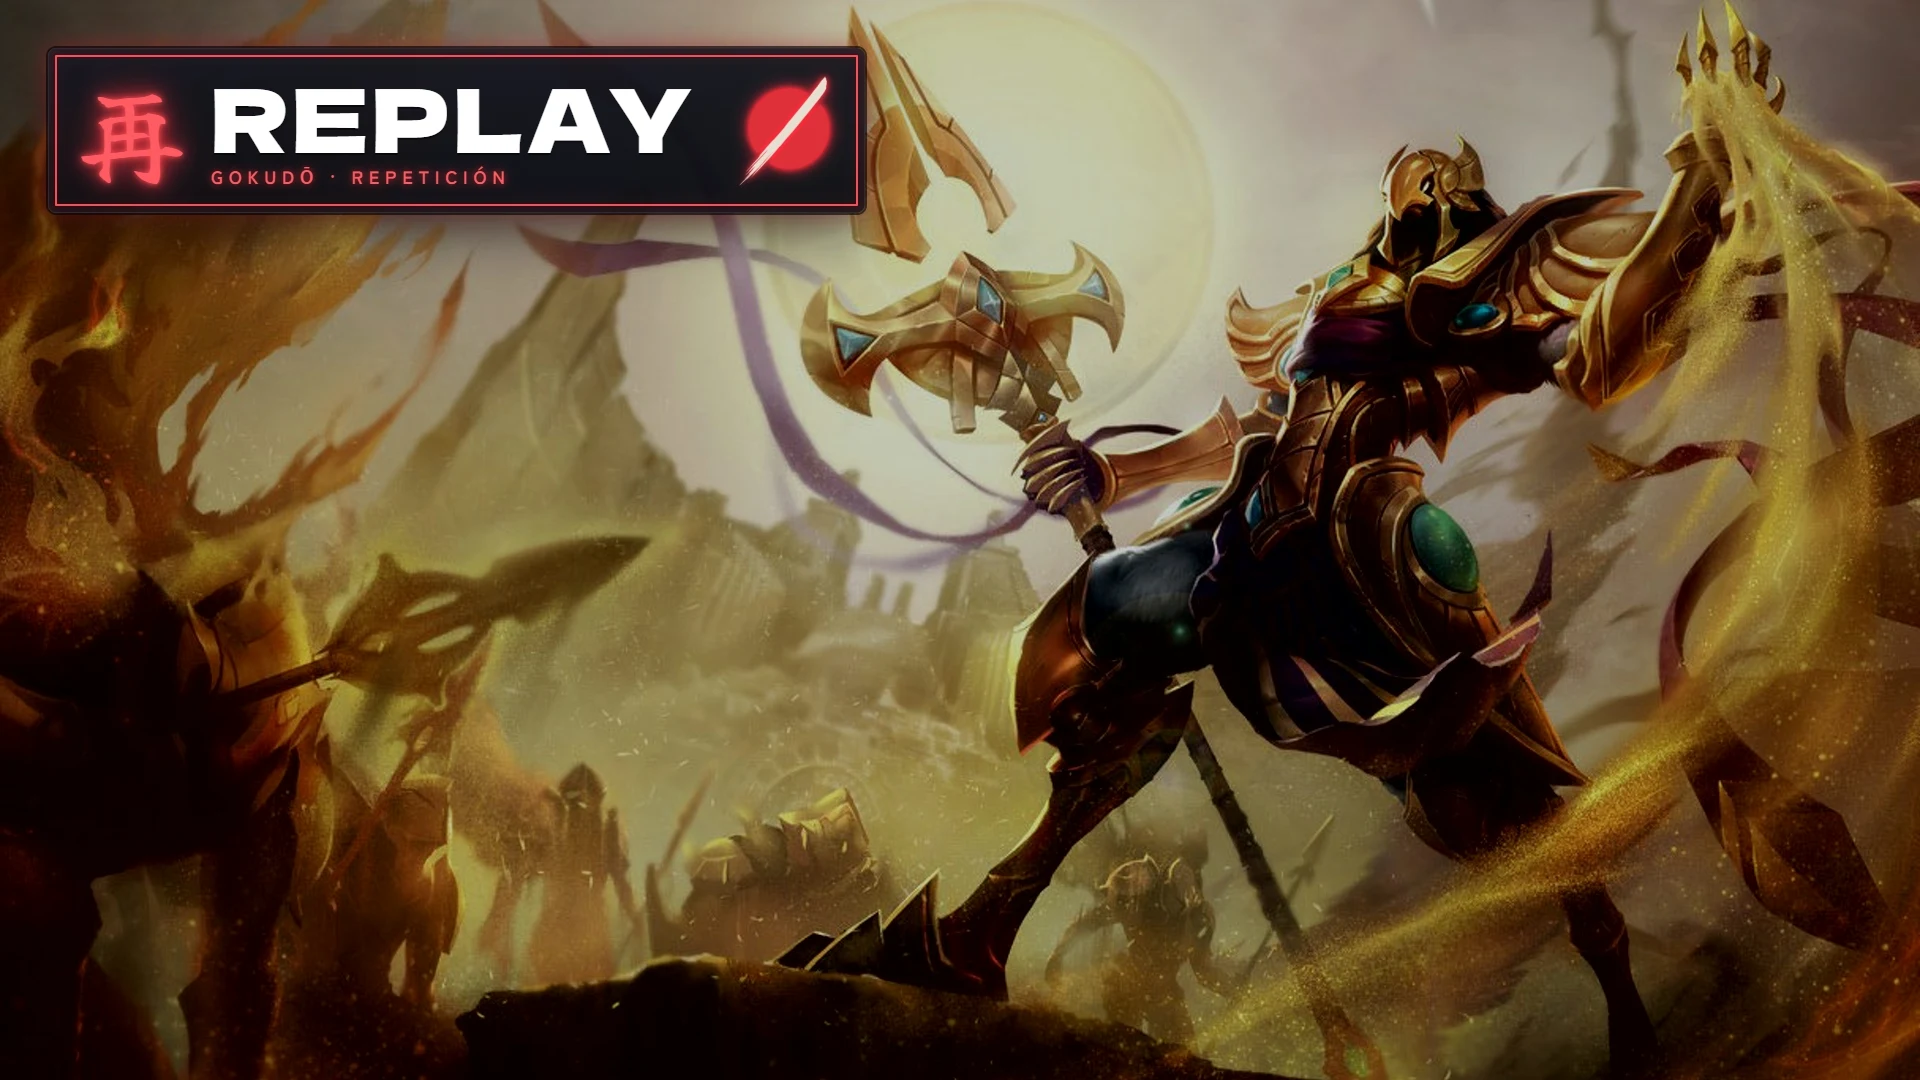
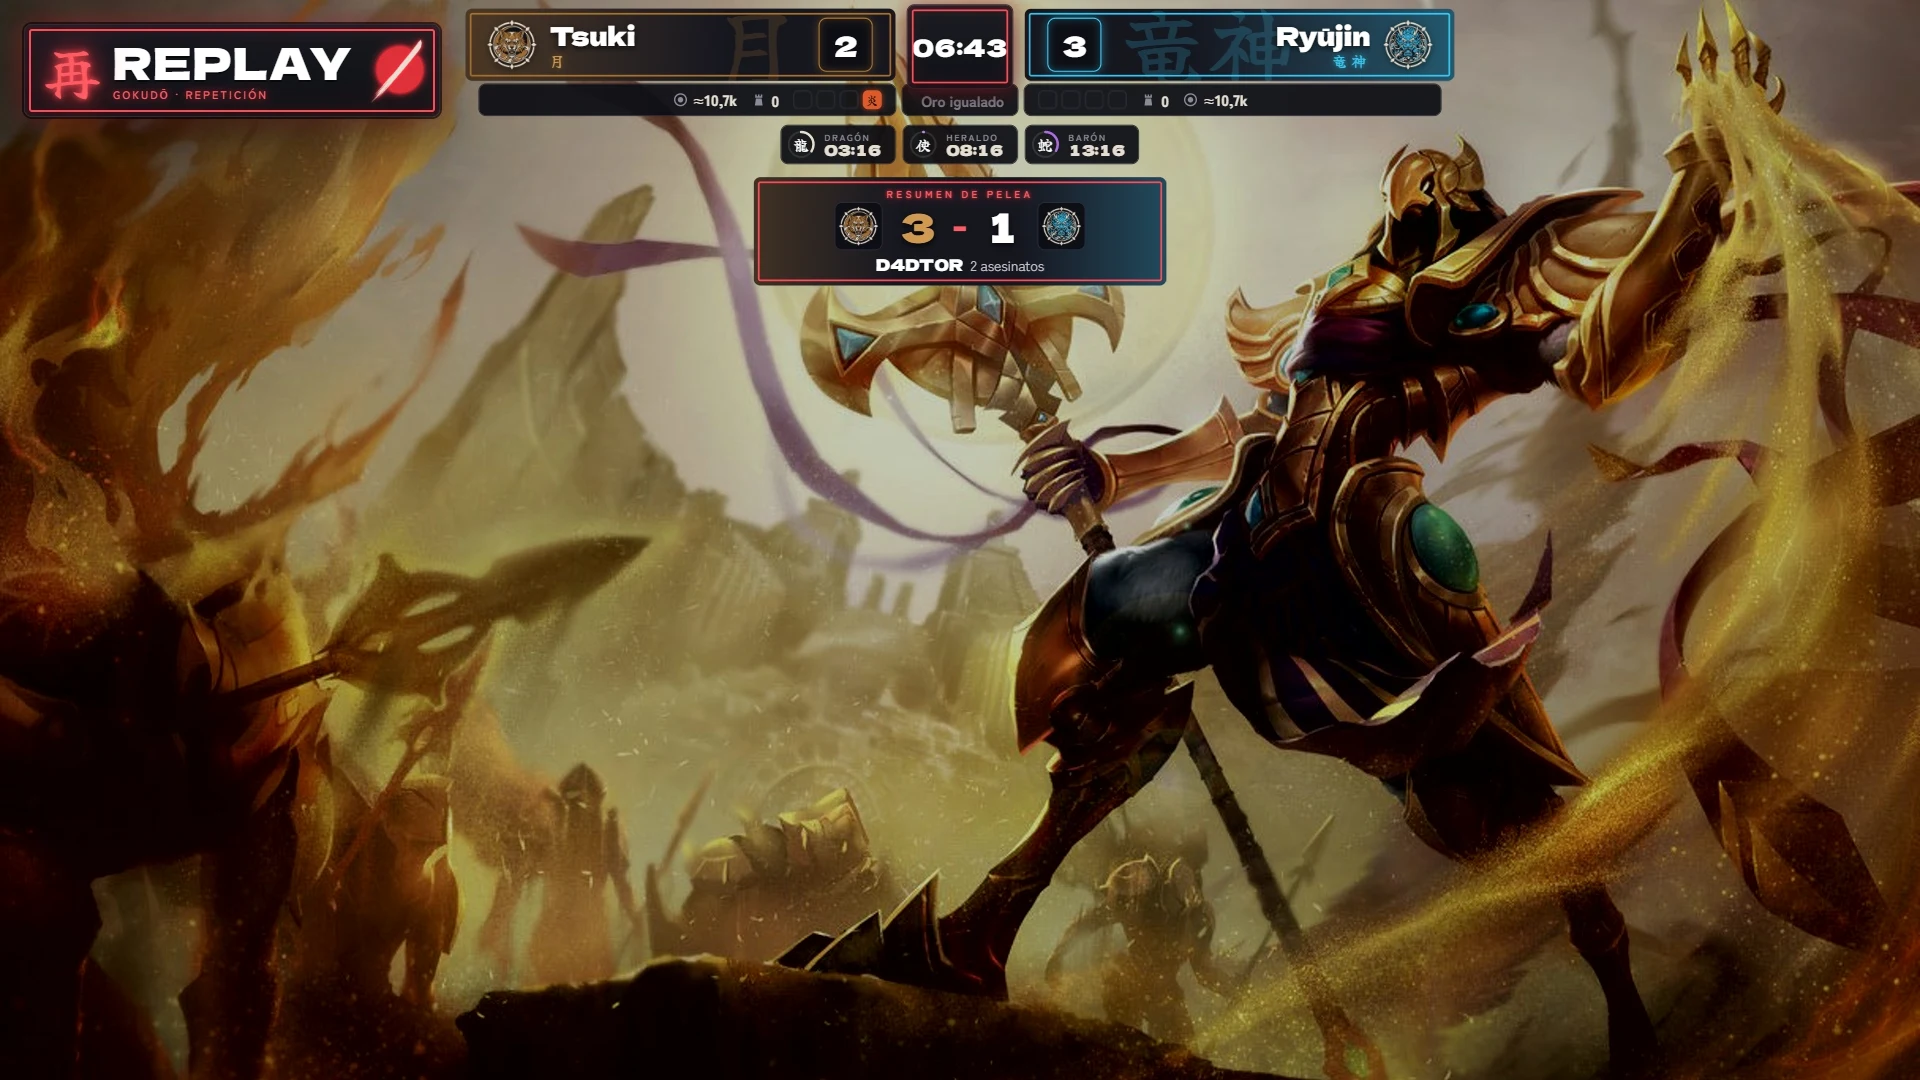
REPLAY: cartel compacto en la esquina para no tapar el marcador de la repetición
Mide unos 416×93 px y acaba en x 440; la placa azul del marcador empieza en x 465 (B) o 491 (A).
Muestra 14-replay rehecha con el marcador B debajo.

Changed region(s): [[0.0, 0.0, 0.7812, 0.275]]

diff --git a/public/overlay/replay.css b/public/overlay/replay.css
@@ -11,26 +11,28 @@ body[data-vista="replay"] #replay { opacity: 1; visibility: visible; transition:
 body[data-vista="replay"] #lienzo { opacity: 0; visibility: hidden; transition: opacity .5s ease, visibility 0s .5s; }
 body[data-vista="replay"] .codigo-directo { display: none; }
 
-.replay-cartel { position: absolute; left: 48px; top: 48px; display: grid; grid-template-columns: auto auto auto; align-items: center; gap: 26px;
-  padding: 20px 26px 20px 28px; border-radius: 8px; border: 1px solid var(--sumi-linea);
+/* Compacto y pegado a la esquina: la repetición lleva el marcador de la partida arriba en el centro, y el cartel no puede
+   tapar el nombre de la familia azul, que empieza hacia x 465 (estilo B) o 491 (A). Mide unos 410 px de ancho (acaba hacia x 435) */
+.replay-cartel { position: absolute; left: 24px; top: 24px; display: grid; grid-template-columns: auto auto auto; align-items: center; gap: 12px;
+  padding: 12px 14px 12px 18px; border-radius: 8px; border: 1px solid var(--sumi-linea);
   background: linear-gradient(180deg, rgba(21, 22, 31, .96), rgba(12, 13, 19, .96));
-  outline: 2px solid var(--shu-claro); outline-offset: -9px;
+  outline: 2px solid var(--shu-claro); outline-offset: -7px;
   box-shadow: 0 0 0 2px rgba(0, 0, 0, .6), 0 18px 50px rgba(0, 0, 0, .55), 0 0 26px rgba(224, 48, 58, .5), inset 0 0 22px rgba(224, 48, 58, .22); }
-.replay-sello { font-family: var(--pincel); font-size: 108px; line-height: 1; color: var(--shu-neon); text-shadow: 0 0 6px var(--shu-claro), 0 0 18px var(--shu), 0 0 40px var(--shu); }
+.replay-sello { font-family: var(--pincel); font-size: 58px; line-height: 1; color: var(--shu-neon); text-shadow: 0 0 6px var(--shu-claro), 0 0 18px var(--shu), 0 0 40px var(--shu); }
 .replay-texto { display: flex; flex-direction: column; }
-.replay-palabra { font-family: var(--dela); font-weight: 400; font-size: 88px; line-height: 1.05; letter-spacing: .04em; color: #fff;
+.replay-palabra { font-family: var(--dela); font-weight: 400; font-size: 44px; line-height: 1.1; letter-spacing: .03em; color: #fff;
   text-shadow: 0 2px 0 rgba(0, 0, 0, .5); }
-.replay-pie { margin-top: 2px; font-family: var(--gothic); font-weight: 700; font-size: 18px; letter-spacing: .32em; text-transform: uppercase;
+.replay-pie { margin-top: 2px; font-family: var(--gothic); font-weight: 700; font-size: 10.5px; letter-spacing: .22em; text-transform: uppercase;
   color: var(--shu-neon); text-shadow: 0 0 10px var(--shu); }
 /* El PNG del sol en neón lleva mucho margen para el halo: se agranda y se le come ese margen */
-.replay-sol { width: 160px; height: 160px; margin: -26px -26px -26px -18px; object-fit: contain; }
+.replay-sol { width: 92px; height: 92px; margin: -18px -18px -18px -14px; object-fit: contain; }
 
 /* Hasta que entra, no se ve nada (así no parpadea el cartel entero antes de empezar la animación) */
 .replay-cartel:not(.entra) { opacity: 0; }
 .replay-cartel.entra { animation: replay-bajar .5s cubic-bezier(.2, .9, .25, 1.15) var(--retraso, 0s) both,
   replay-encender 1s steps(1, end) calc(var(--retraso, 0s) + .25s) both; }
 .replay-cartel.entra .replay-sello, .replay-cartel.entra .replay-sol { animation: replay-zumbido 4s ease-in-out calc(var(--retraso, 0s) + 1.4s) infinite; }
-@keyframes replay-bajar { from { opacity: 0; transform: translateY(-60px); } to { opacity: 1; transform: none; } }
+@keyframes replay-bajar { from { opacity: 0; transform: translateY(-40px); } to { opacity: 1; transform: none; } }
 /* Un tubo que arranca: falla un par de veces y se queda encendido */
 @keyframes replay-encender {
   0% { outline-color: transparent; } 12% { outline-color: var(--shu-claro); } 22% { outline-color: transparent; }

diff --git a/docs/capturas/gokudo/muestras.html b/docs/capturas/gokudo/muestras.html
@@ -44,7 +44,7 @@
   <figure><img src="11-ficha-b.webp" alt=""><figcaption><b>Ficha de jugador B</b></figcaption></figure>
   <figure><img src="12-grafica-a.webp" alt=""><figcaption><b>Gráfica de oro A</b></figcaption></figure>
   <figure><img src="13-grafica-b.webp" alt=""><figcaption><b>Gráfica de oro B</b></figcaption></figure>
-  <figure class="ancha"><img src="14-replay.webp" alt=""><figcaption><b>REPLAY</b>Lo quita todo y deja el rótulo de neón, que se enciende con parpadeo como las alertas de Kick. Sale con el botón «Replay» del panel o como fuente de OBS con <code>/overlay/?vista=replay</code>.</figcaption></figure>
+  <figure class="ancha"><img src="14-replay.webp" alt=""><figcaption><b>REPLAY</b>Lo quita todo y deja el rótulo de neón, que se enciende con parpadeo como las alertas de Kick. Va pequeño en la esquina para no tapar el marcador de la repetición (aquí, el B debajo). Sale con el botón «Replay» del panel o como fuente de OBS con <code>/overlay/?vista=replay</code>.</figcaption></figure>
 </main>
 </body>
 </html>
